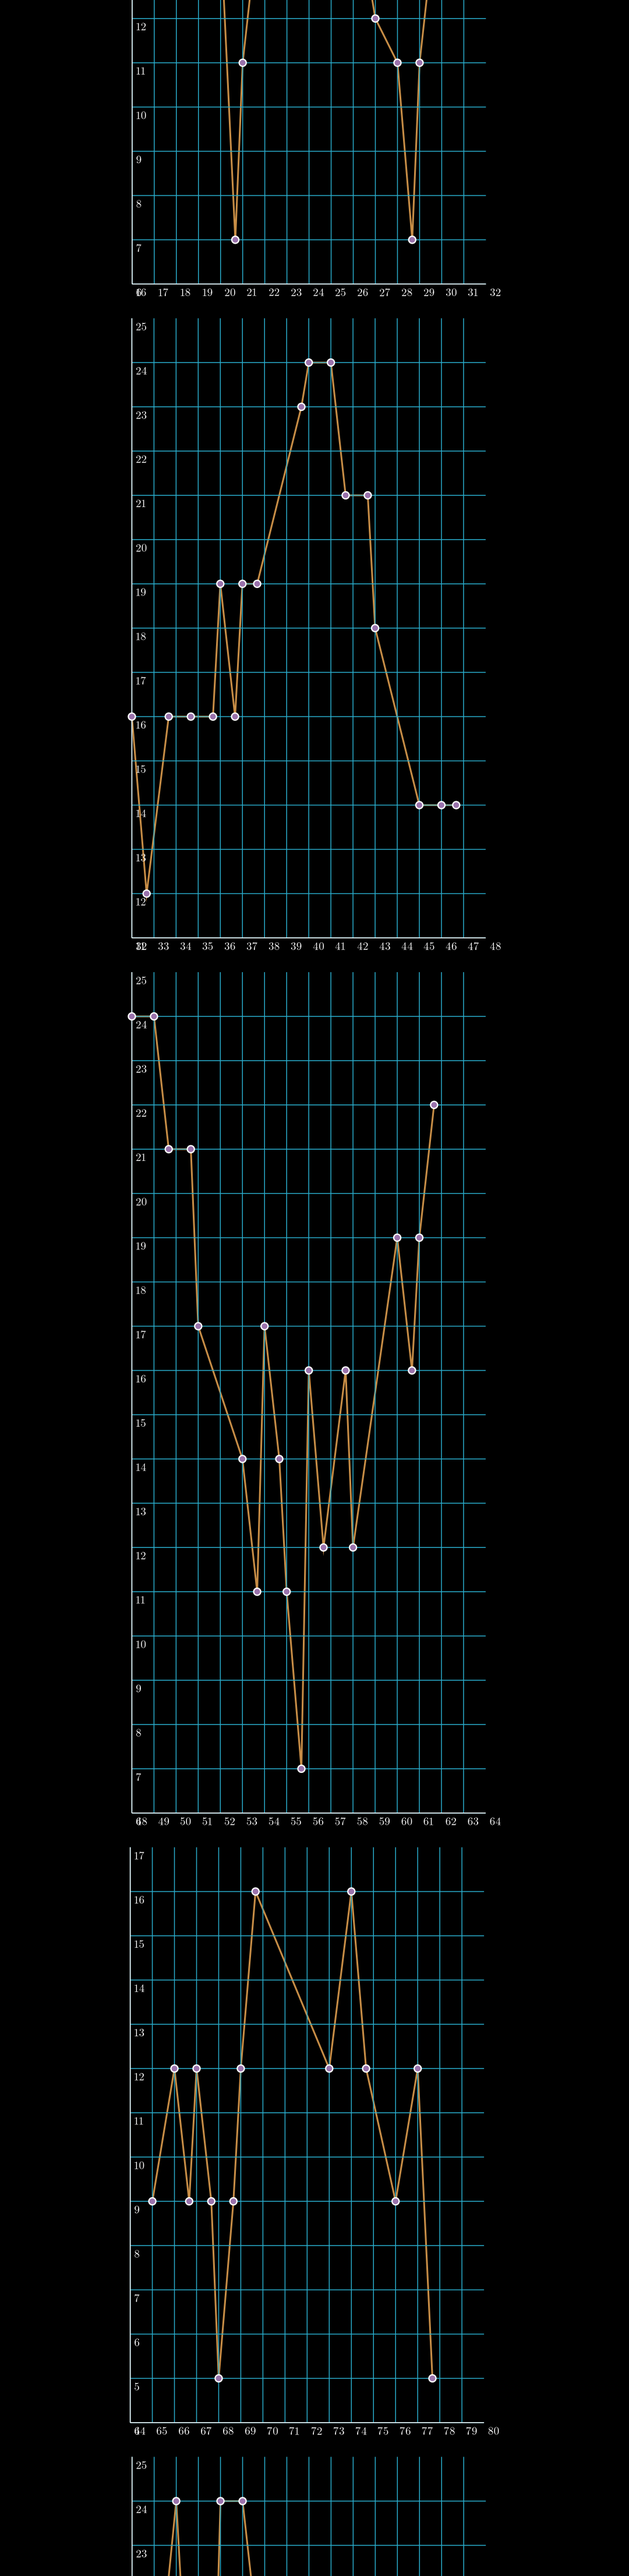
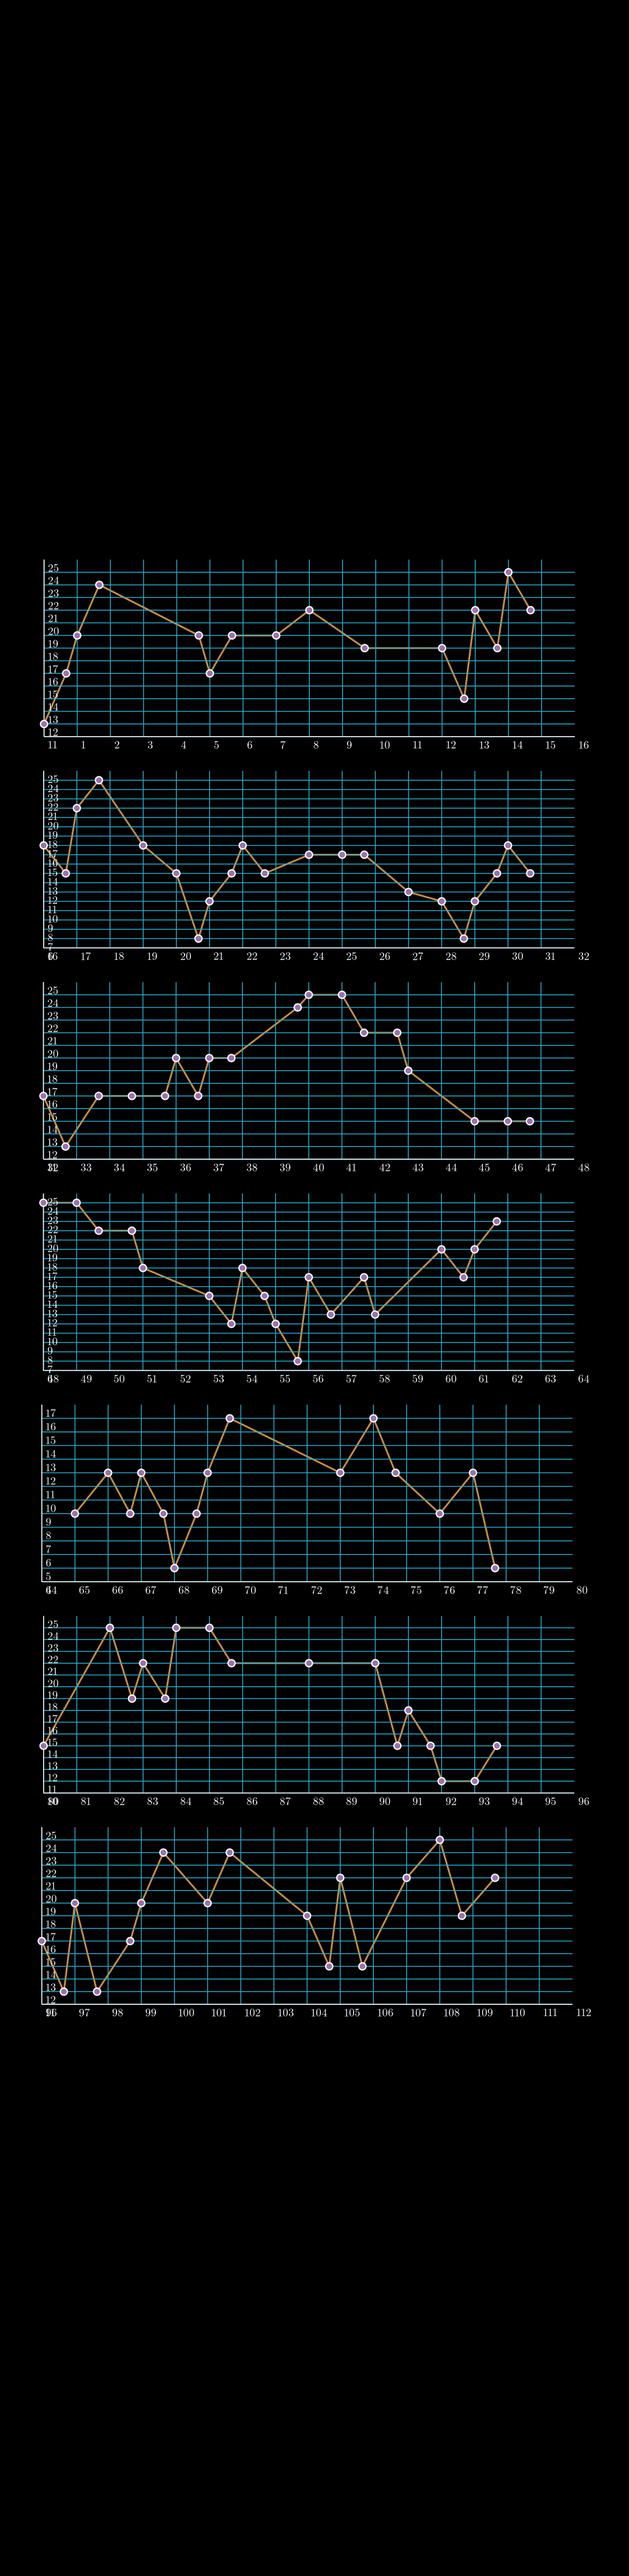
add in basic dots

diff --git a/line_graph.py b/line_graph.py
@@ -10,9 +10,9 @@ def create_line_graph(x_vals, y_vals, x_start, x_end):
         x_range = (x_start, x_end),
         y_range = (min(y_vals)-1, max(y_vals)+1),
         #x_length = self.camera.frame_width - 2 * x_padding,
-        x_length = 8,
+        x_length = 12,
         #y_length = self.camera.frame_height - 2 * y_padding,
-        #y_length = 3,
+        y_length = 4,
         axis_config={"include_numbers": True},
     )
     plane.center()
